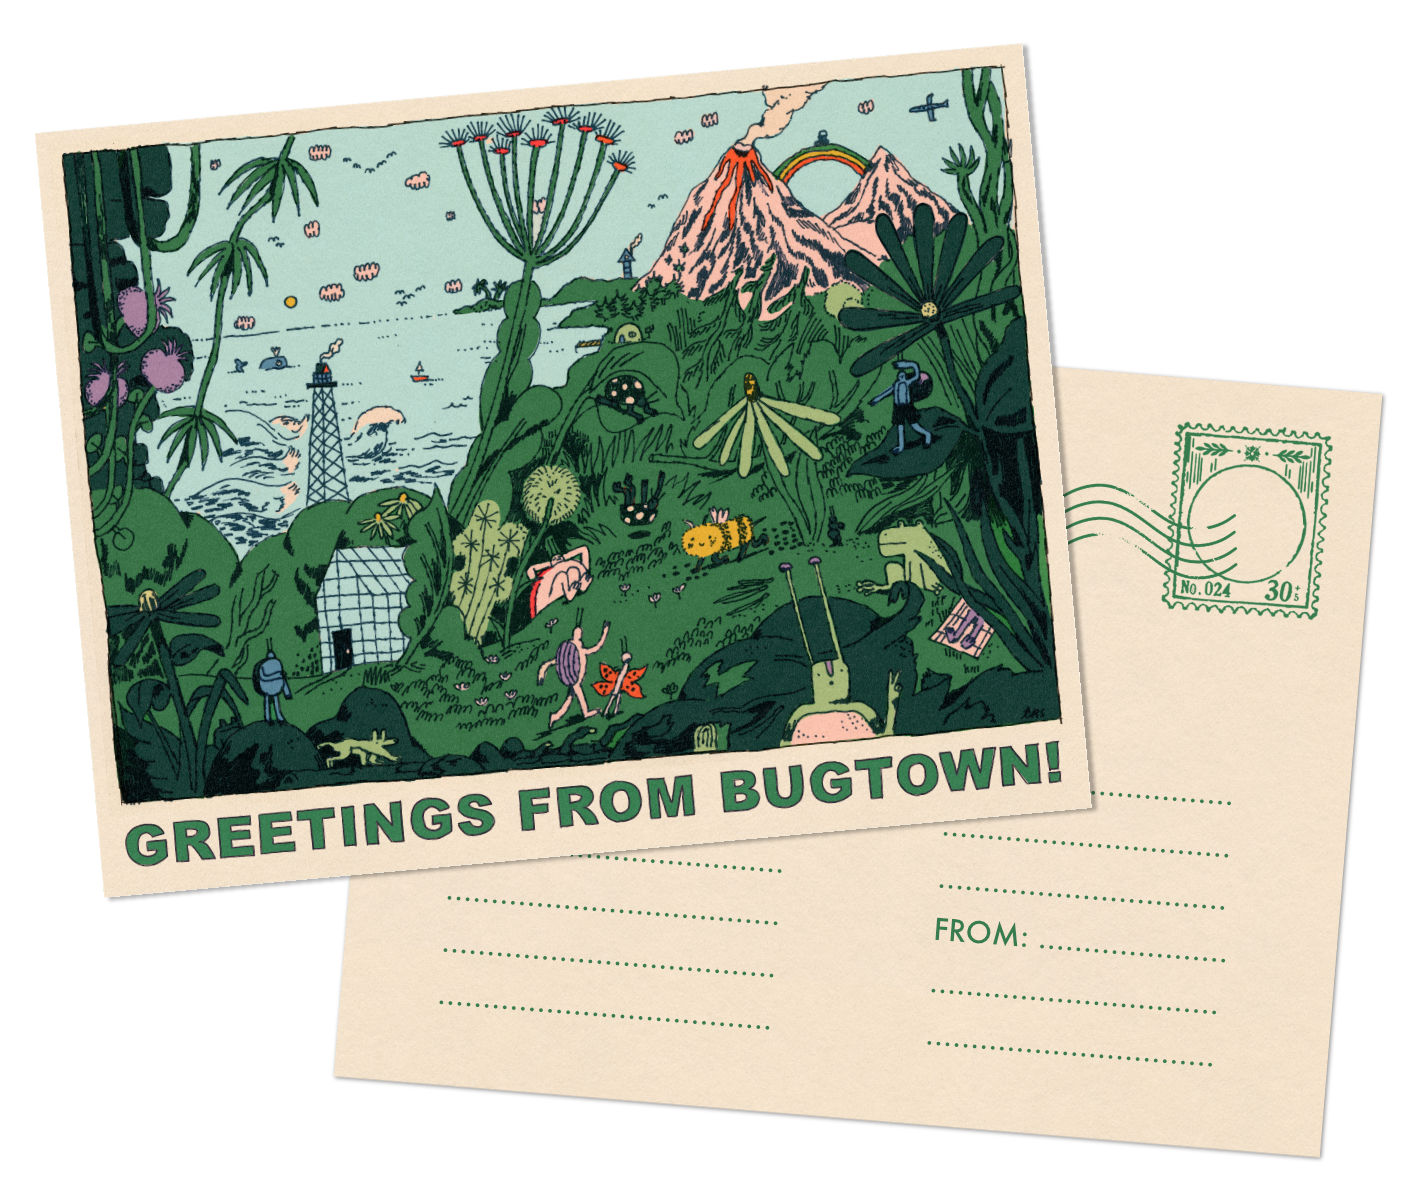
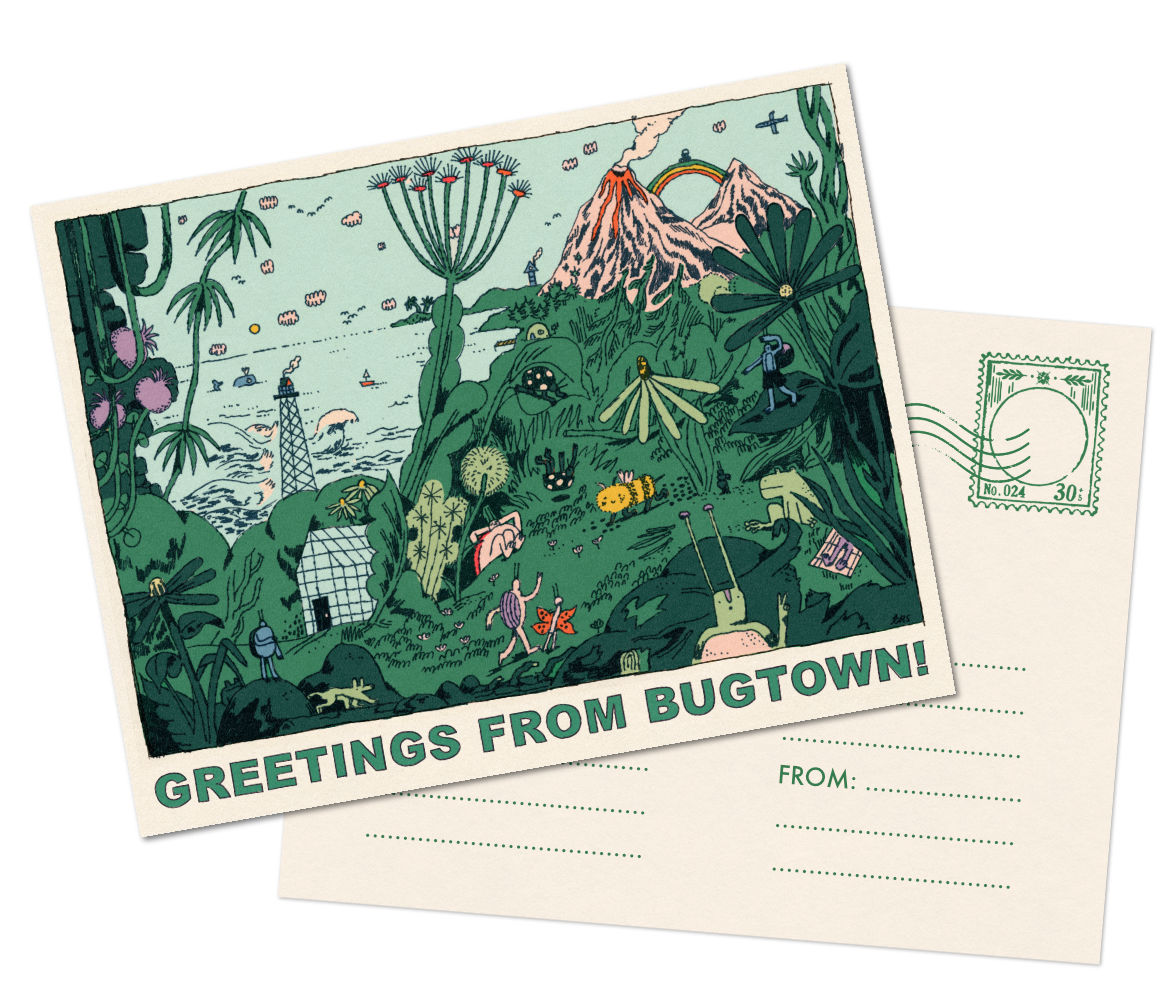
added works to bugtown

diff --git a/index.html b/index.html
@@ -29,7 +29,7 @@
             {src: "assets/featured/CatNap-Animation-Gouache-Small-TildaRose.gif", description: "howdy!", link: "projects/howdy_animation.html"},
             {src: "assets/featured/Snake-Painting-Character-Monster-TildaRose.jpg", description: "the devil turned into a snake", link: "projects/snake.html"},
             {src: "assets/featured/Basement-Music-Poster-TildaRose.jpg", description: "music poster", link: "projects/music_poster.html"},
-            {src: "assets/featured/Bugtown-TildaRose-Poster.jpg", description: "greetings from bugtown", link: "projects/bugtown.html"},
+            {src: "assets/featured-inside/Bugtown/Bugtown-Poster-3-TildaRose.jpg", description: "greetings from bugtown", link: "projects/bugtown.html"},
             {src: "assets/featured/Charcoal-Flower-Sketch-Charcoal-Framed-TildaRose.jpg", description: "charcoal works", link: "projects/charcoal_works.html"},
             {src: "assets/featured/Twigs-GIF-TildaRose.gif", description: "DO NOT TOUCH !", link: "projects/stick_collection.html"},
             {src: "assets/pattern/Fish-Pike-Green-1-TildaRose.jpg", description: "patterns", link: "textile/patterns.html"},
@@ -56,7 +56,7 @@
             {src: "assets/animations/Rowboat-Animation-TildaRose-Transparent.gif", description: "animations", link: "projects/animations.html"},   
         ];
     </script>
-
+t
     <div class="masonry">
         <div class="column" id="col1"></div>
         <div class="column" id="col2"></div>

diff --git a/work/nature.html b/work/nature.html
@@ -37,6 +37,7 @@
 			{src: "../assets/pattern/MiiaKeskitalo-TildaRose-Pattern.jpg", description: "miia keskitalo x tilda rose", link: "../textile/patterns.html"},
 			{src: "../assets/featured/IpiPikku-ChildrensBook-Greenhouse-Night-Plants-Animals-Childrens-Book-Tilda-Rose.jpg", description: "the mouse and the caterpillar", link: "../projects/mouse_and_caterpillar.html"},
             {src: "../assets/client/TildaRose-TPF-Final-Layers.jpg", description: "the poetry foundation"},
+            {src: "../assets/featured-inside/Bugtown/Bugtown-Poster-2-TildaRose.jpg", description: "calm down in bugtown", link: "../projects/bugtown.html"},
 			{src: "../assets/client/Tehy-Magazine-Work-Exhaustion-1-TildaRose.jpg", description: "finnish union of health and social care"},
             {src: "../assets/nature/BalticSea-Needs-Help-Ink-Drawing-TildaRose.jpg", description: "the baltic sea"},
 			{src: "../assets/creatures/Pike-Vignette-Sea-Underwater-Fish-TildaRose.jpg", description: "sleepy pike"},

diff --git a/work/creatures.html b/work/creatures.html
@@ -31,6 +31,7 @@
             {src: "../assets/animations/Twig-Character-TildaRose-Animation.gif", description: "twiggy"},
             {src: "../assets/creatures/Turtle-Painting-Framed-TildaRose.jpg", description: "the turtle"},
             {src: "../assets/creatures/TildaRose-FlyingEye-Illustrated-Portrait-3.jpg", description: "self-portrait"},
+            {src: "../assets/featured-inside/Bugtown/Bugtown-Poster-3-TildaRose.jpg", description: "residents of bugtown", link: "../projects/bugtown.html"},
             {src: "../assets/creatures/IpiAndPikku-Greenhouse-Night-Plants-Animals-Childrens-Book-TildaRose.jpg", description: "the greenhouse i"},
             {src: "../assets/creatures/MouseAndCrab-Tide-TildaRose.jpg", description: "crab and mouse"},
             {src: "../assets/featured/HelpingHand-TildaRose-Vignettes-5.jpg", description: "private commission"},

diff --git a/projects/bugtown.html b/projects/bugtown.html
@@ -29,6 +29,8 @@
 	<div class="single_project_item_wide">
 		<img src="../assets/featured-inside/Bugtown/Come-To-Bugtown-InkDrawing-TildaRose.jpg">
 		<img src="../assets/featured-inside/Bugtown/Bugtown-Postcard-TildaRose.jpg">
+		<img src="../assets/featured-inside/Bugtown/Bugtown-Poster-3-TildaRose.jpg">
+		<img src="../assets/featured-inside/Bugtown/Bugtown-Poster-2-TildaRose.jpg">
 		<img src="../assets/featured/Bugtown-TildaRose-Poster.jpg">
 	</div>
 
